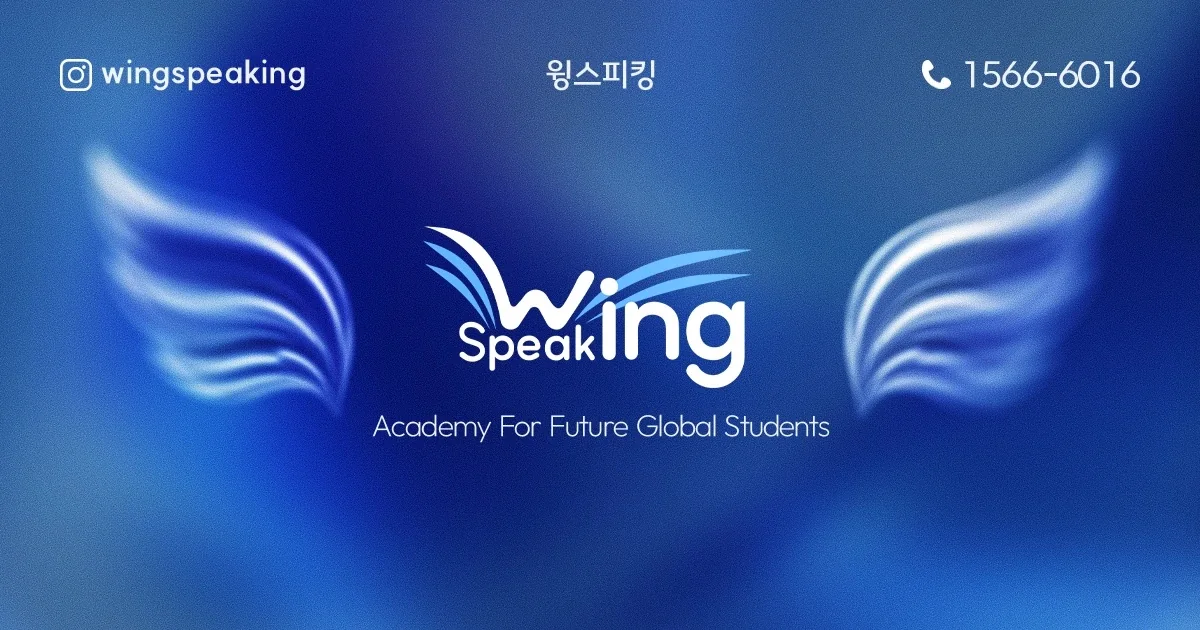
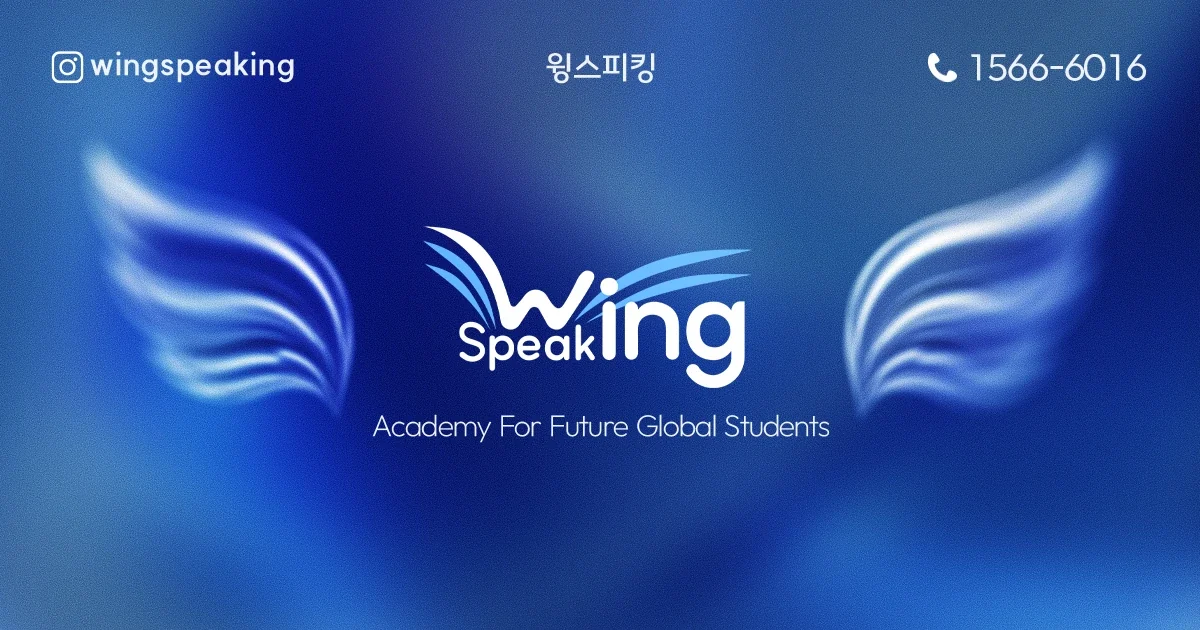
WingSpeaking: replace main and junior program images
Claude-Session: https://claude.ai/code/session_014BqGhY4ErY7f5qsFQT5aby

Changed region(s): [[0.0308, 0.0603, 0.2775, 0.1508], [0.74, 0.0603, 0.9558, 0.1508], [0.4317, 0.0603, 0.555, 0.1508]]

diff --git a/work/wingspeaking.html b/work/wingspeaking.html
@@ -140,7 +140,7 @@
             <p class="web__cap"><span>MAIN BANNER</span>홈페이지 메인 배너 — 과정마다 색을 바꾼 날개 그래픽</p>
             <div class="web__banners"><img decoding="async" src="../assets/work/wingspeaking/web/program/banner-departure.webp" alt="홈페이지 배너 — 출국 대비 Speaking" loading="lazy"><img decoding="async" src="../assets/work/wingspeaking/web/program/banner-academic.webp" alt="홈페이지 배너 — Academic Program · 대학 출국반" loading="lazy"><img decoding="async" src="../assets/work/wingspeaking/web/program/banner-student.webp" alt="홈페이지 배너 — 유학생 Speaking" loading="lazy"><img decoding="async" src="../assets/work/wingspeaking/web/program/banner-test.webp" alt="홈페이지 배너 — Test Center · 국제학교 입학 인터뷰" loading="lazy"><img decoding="async" src="../assets/work/wingspeaking/web/program/banner-junior.webp" alt="홈페이지 배너 — Junior Class · 출국반 기본기 종합강의" loading="lazy"><img decoding="async" src="../assets/work/wingspeaking/web/program/banner-junior-g.webp" alt="홈페이지 배너 — Junior Class for G9–G10" loading="lazy"></div>
             <p class="web__cap"><span>PROGRAM PAGE</span>과정 소개 페이지 대표 이미지</p>
-            <div class="web__thumbs"><img decoding="async" src="../assets/work/wingspeaking/web/program/page-main.webp" alt="과정 소개 이미지 — 윙스피킹 대표 이미지" loading="lazy"><img decoding="async" src="../assets/work/wingspeaking/web/program/page-departure.webp" alt="과정 소개 이미지 — 출국 대비" loading="lazy"><img decoding="async" src="../assets/work/wingspeaking/web/program/page-interview.webp" alt="과정 소개 이미지 — 국제학교 입학 인터뷰" loading="lazy"><img decoding="async" src="../assets/work/wingspeaking/web/program/page-student.webp" alt="과정 소개 이미지 — 유학생 Speaking" loading="lazy"><img decoding="async" src="../assets/work/wingspeaking/web/program/page-junior.webp" alt="과정 소개 이미지 — 주니어 종합강의" loading="lazy"><img decoding="async" src="../assets/work/wingspeaking/web/program/page-junior-g.webp" alt="과정 소개 이미지 — 주니어 출국반 G9–G10" loading="lazy"></div>
+            <div class="web__thumbs"><img decoding="async" src="../assets/work/wingspeaking/web/program/page-main.webp?v=2" alt="과정 소개 이미지 — 윙스피킹 대표 이미지" loading="lazy"><img decoding="async" src="../assets/work/wingspeaking/web/program/page-departure.webp" alt="과정 소개 이미지 — 출국 대비" loading="lazy"><img decoding="async" src="../assets/work/wingspeaking/web/program/page-interview.webp" alt="과정 소개 이미지 — 국제학교 입학 인터뷰" loading="lazy"><img decoding="async" src="../assets/work/wingspeaking/web/program/page-student.webp" alt="과정 소개 이미지 — 유학생 Speaking" loading="lazy"><img decoding="async" src="../assets/work/wingspeaking/web/program/page-junior.webp?v=2" alt="과정 소개 이미지 — 주니어 종합강의" loading="lazy"><img decoding="async" src="../assets/work/wingspeaking/web/program/page-junior-g.webp" alt="과정 소개 이미지 — 주니어 출국반 G9–G10" loading="lazy"></div>
             <p class="web__cap"><span>TEST CENTER</span>유학 시험센터 — DET · IELTS · 입학 인터뷰</p>
             <div class="web__thumbs"><img decoding="async" src="../assets/work/wingspeaking/web/program/test-center.webp" alt="유학 시험센터 대표 이미지 — Test Center, DET · IELTS · INTERVIEW" loading="lazy"><img decoding="async" src="../assets/work/wingspeaking/web/program/test-duolingo.webp" alt="시험센터 이미지 — Duolingo English Test" loading="lazy"><img decoding="async" src="../assets/work/wingspeaking/web/program/test-interview.webp" alt="시험센터 이미지 — 국제학교 입학 인터뷰" loading="lazy"></div>
           </div>
